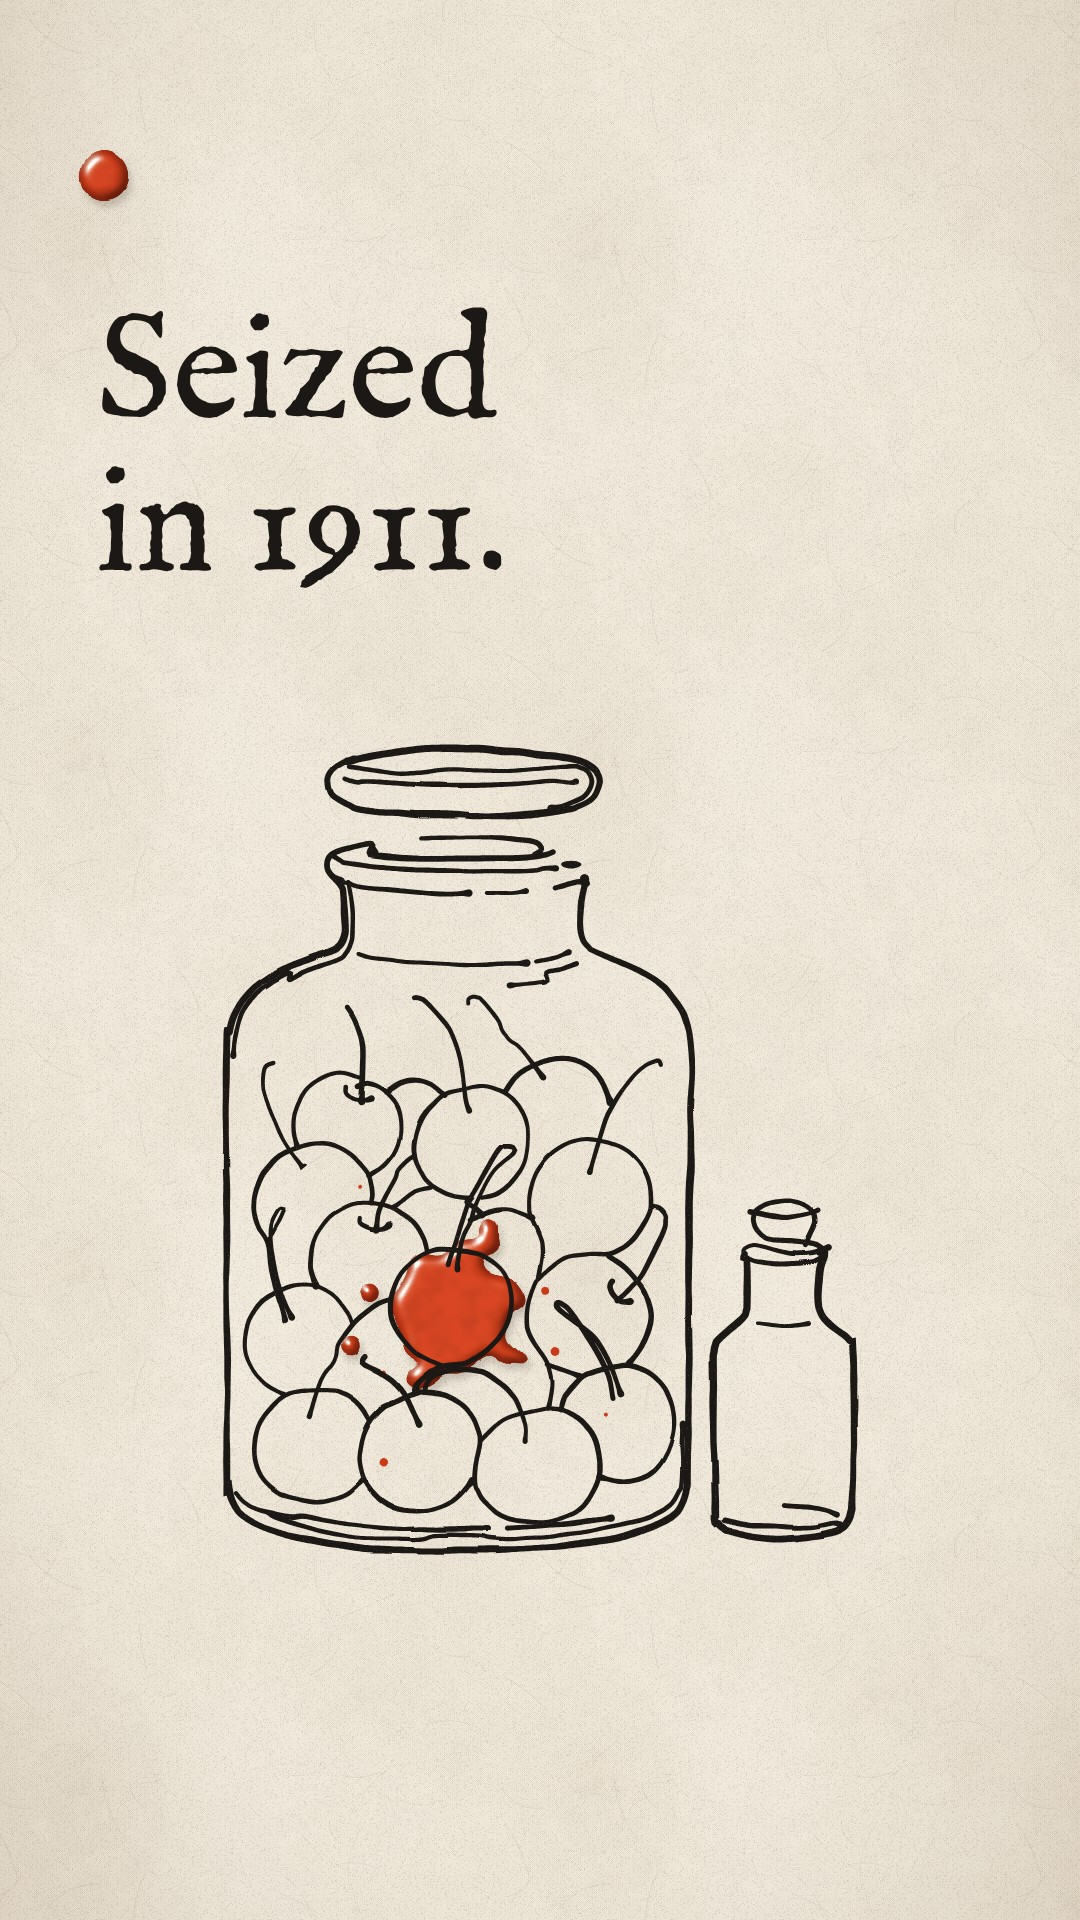
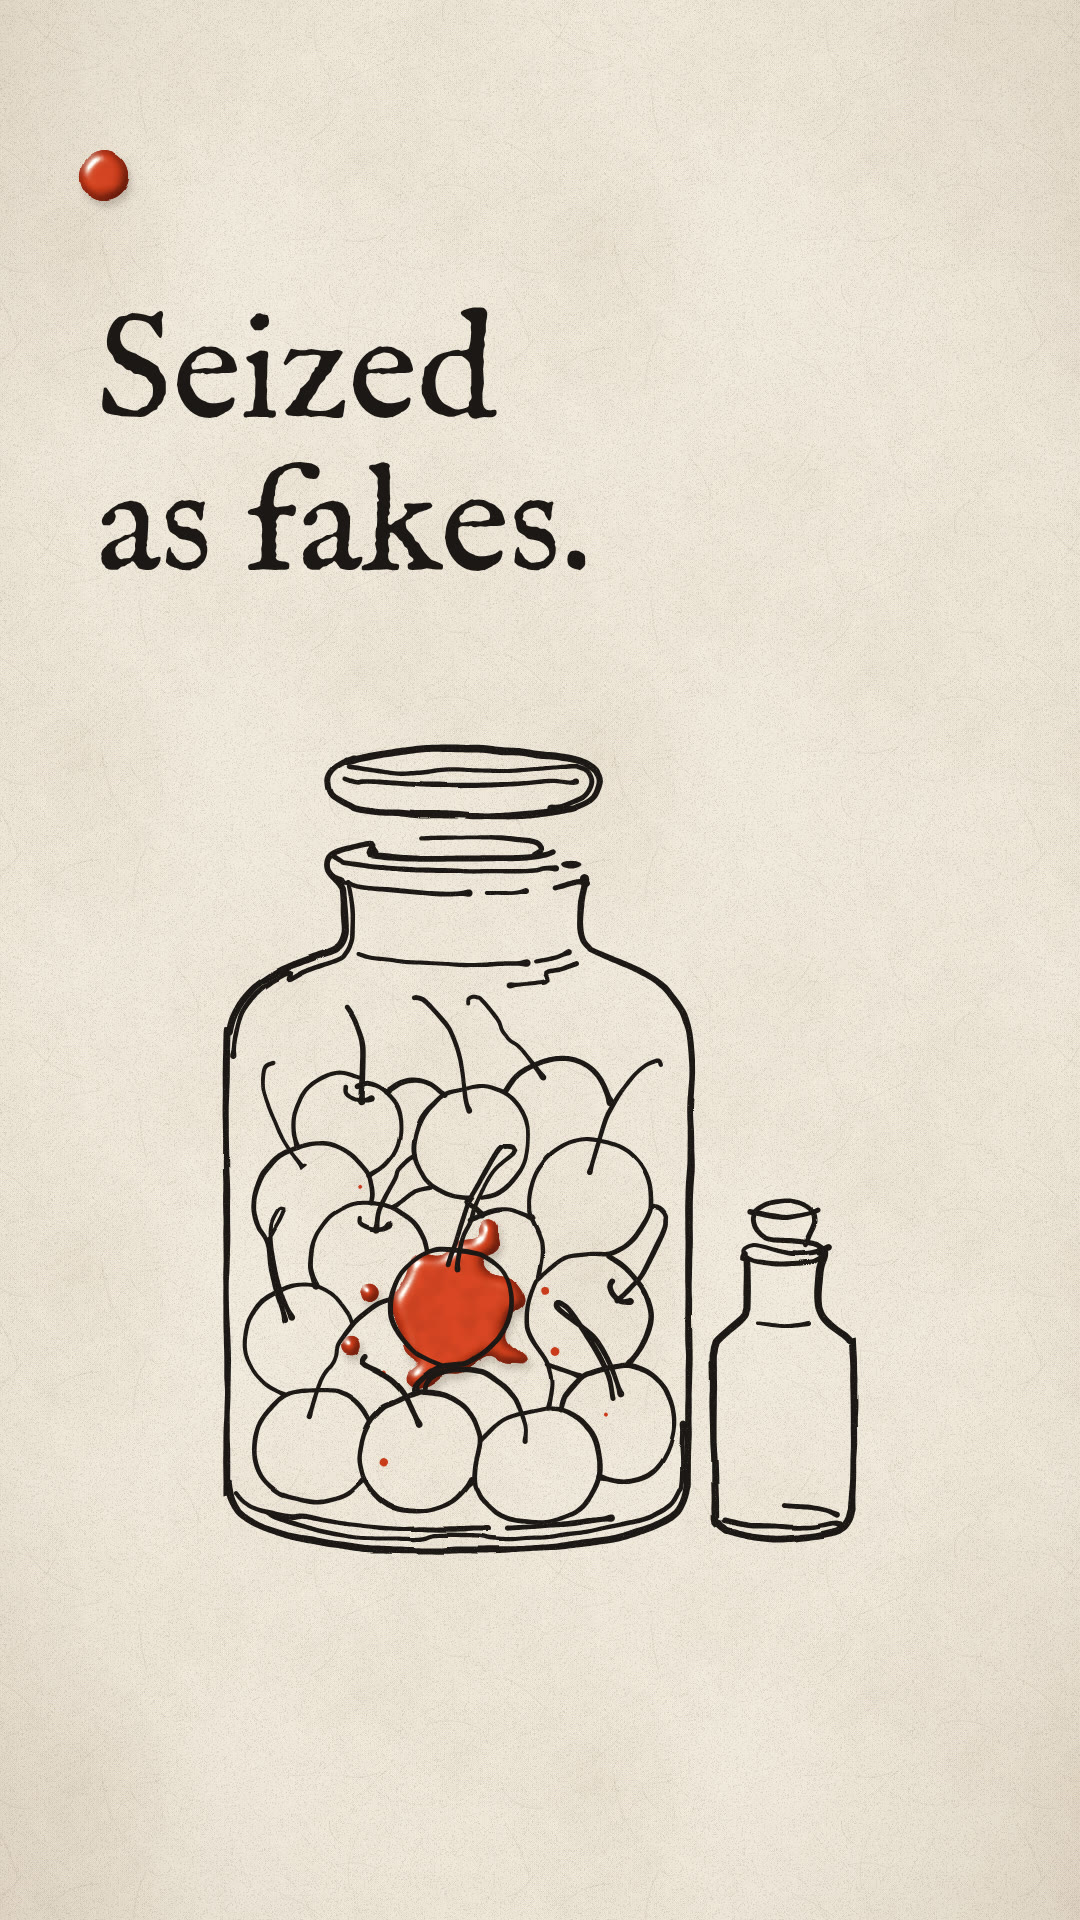
Short 04 cover: 'Seized as fakes.' (the year in 'Seized in 1911.' added little)
Claude-Session: https://claude.ai/code/session_015VaSP1oJDutRL47vjmUuCK

Changed region(s): [[0.2444, 0.2188, 0.55, 0.3125], [0.0917, 0.2188, 0.1833, 0.3125]]

diff --git a/stories/04-maraschino/layout.py b/stories/04-maraschino/layout.py
@@ -97,7 +97,7 @@ for sc in shots['scenes']:
 
 layout = {
     'style': {'ink': 6.4, 'inner': 0.68, 'minLen': 16, 'boil': 0.35, 'boilFps': 4, 'reel': {'on': True}, 'hangIntro': True},
-    'cover': {'words': ['Seized', 'in 1911.'], 'art': 'cherry-jar', 'at': frac('cherry-jar', 430, 676),
+    'cover': {'words': ['Seized', 'as fakes.'], 'art': 'cherry-jar', 'at': frac('cherry-jar', 430, 676),
               'x': 540, 'y': 1150, 'w': 640, 'R': 56},
     'scenes': scenes,
 }

diff --git a/stories/04-maraschino/publish.md b/stories/04-maraschino/publish.md
@@ -4,7 +4,7 @@
 
 **Title (≤70 chars, no payoff):** Why are maraschino cherries so red?  (changed on YouTube 2026-10-09 from "…? It's not the cherry": the title and cover shouldn't answer the question)
 (Changed from "... Bleached, then dyed" at upload: that repeated the cover.)
-**Cover:** out/maraschino-cover.jpg ("Seized in 1911."; was "Bleached. Then dyed.", which answered the title: changed 2026-10-09; the new thumbnail is saved on YouTube, checked after a reload)
+**Cover:** out/maraschino-cover.jpg ("Seized as fakes."; was "Bleached. Then dyed.", which answered the title, then briefly "Seized in 1911.", where the year added little: changed 2026-10-09)
 **Publish:** Friday 2026-10-09, 12:00 PM Central (daily except Sunday from Oct 8, Matthew). Playlist: "Every story, in order".
 **Before upload:** recheck Red No. 3's status. Done 2026-10-08: FDA's Red No. 3 page (content current as of 10/05/2026) still gives January 15, 2027 for food and January 18, 2028 for ingested drugs, with no stay.
 
